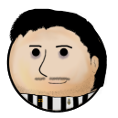
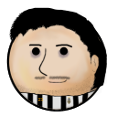
pelota redimensionada

diff --git a/principal.js b/principal.js
@@ -32,9 +32,9 @@ var estado_princ = {
     
     preload: function(){
         capgross.load.image('fondo', 'img/campo.png');
-        capgross.load.image('jugador1', 'img/EricR.png');
-        capgross.load.image('pelota', 'img/Pelota2.png');
-        capgross.load.image('jugador2', 'img/JordiR.png');
+        capgross.load.image('jugador1', 'img/AlexR.png');
+        capgross.load.image('pelota', 'img/Pelota3.png');
+        capgross.load.image('jugador2', 'img/EricR.png');
     },
     
 
@@ -163,7 +163,7 @@ function create_ball(x,y){
     ball.body.collideWorldBounds = true;
     ball.body.bounce.setTo(0.58,0.58);
     ball.body.gravity.y = 700;
-    ball.scale.setTo(0.4,0.4);
+    ball.scale.setTo(1,1);
     return ball;
 }
 function launch_ball(){
